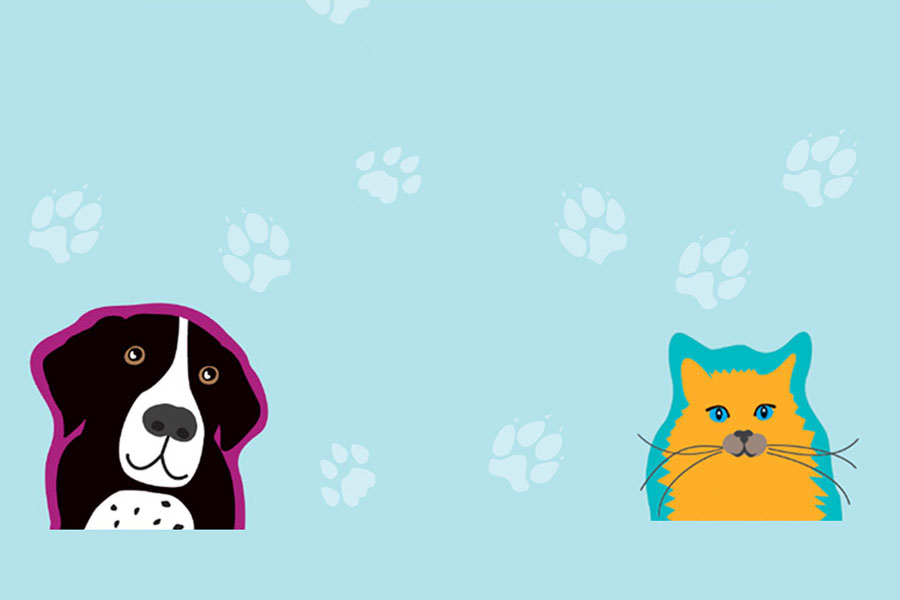
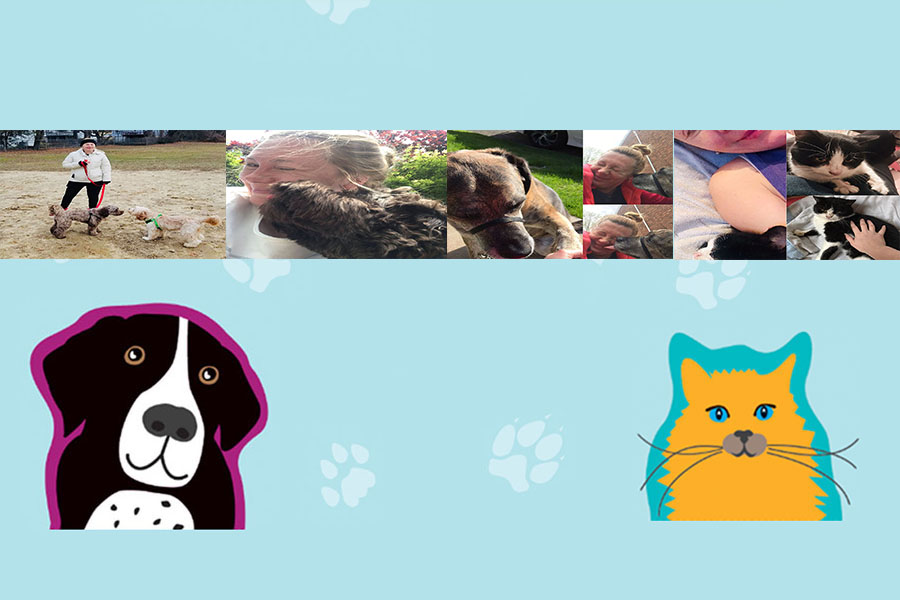
Images place change

Changed region(s): [[0.0, 0.21, 1.0, 0.45]]

diff --git a/index.html b/index.html
@@ -124,34 +124,16 @@
             <h2 class="section-title mb-3">About</h2>
           </div>
         </div>
+
+        
         <div class="row">
           <div class="col-lg-6 mb-5" data-aos="fade-up" data-aos-delay="">
             <figure class="circle-bg">
-
-              <div class="slide-one-item home-slider owl-carousel">
-                <div class="imgAbout">
-                  <img src="images/AnnaPic.jpg" alt="Image" class="img-fluid">
-                </div>
-          
-                <div class="imgAbout">
-                  <img src="images/Image.jpeg" alt="Image" class="img-fluid">
-                </div>
-
-                <div class="imgAbout">
-                  <img src="images/Image1.jpeg" alt="Image" class="img-fluid">
-                </div>
-
-                <div class="imgAbout">
-                  <img src="images/Image2.jpeg" alt="Image" class="img-fluid">
-                </div>
-
-                <div class="imgAbout">
-                  <img src="images/Image3.jpeg" alt="Image" class="img-fluid">
-                </div>
-              </div>
-
+                <img src="images/AnnaPic.jpg" alt="Image" class="img-fluid">
             </figure>
           </div>
+        
+
           <div class="col-lg-5 ml-auto" data-aos="fade-up" data-aos-delay="100">
             <div class="mb-4">
               <h3 class="h3 mb-4 text-black">Love Pets!</h3>
